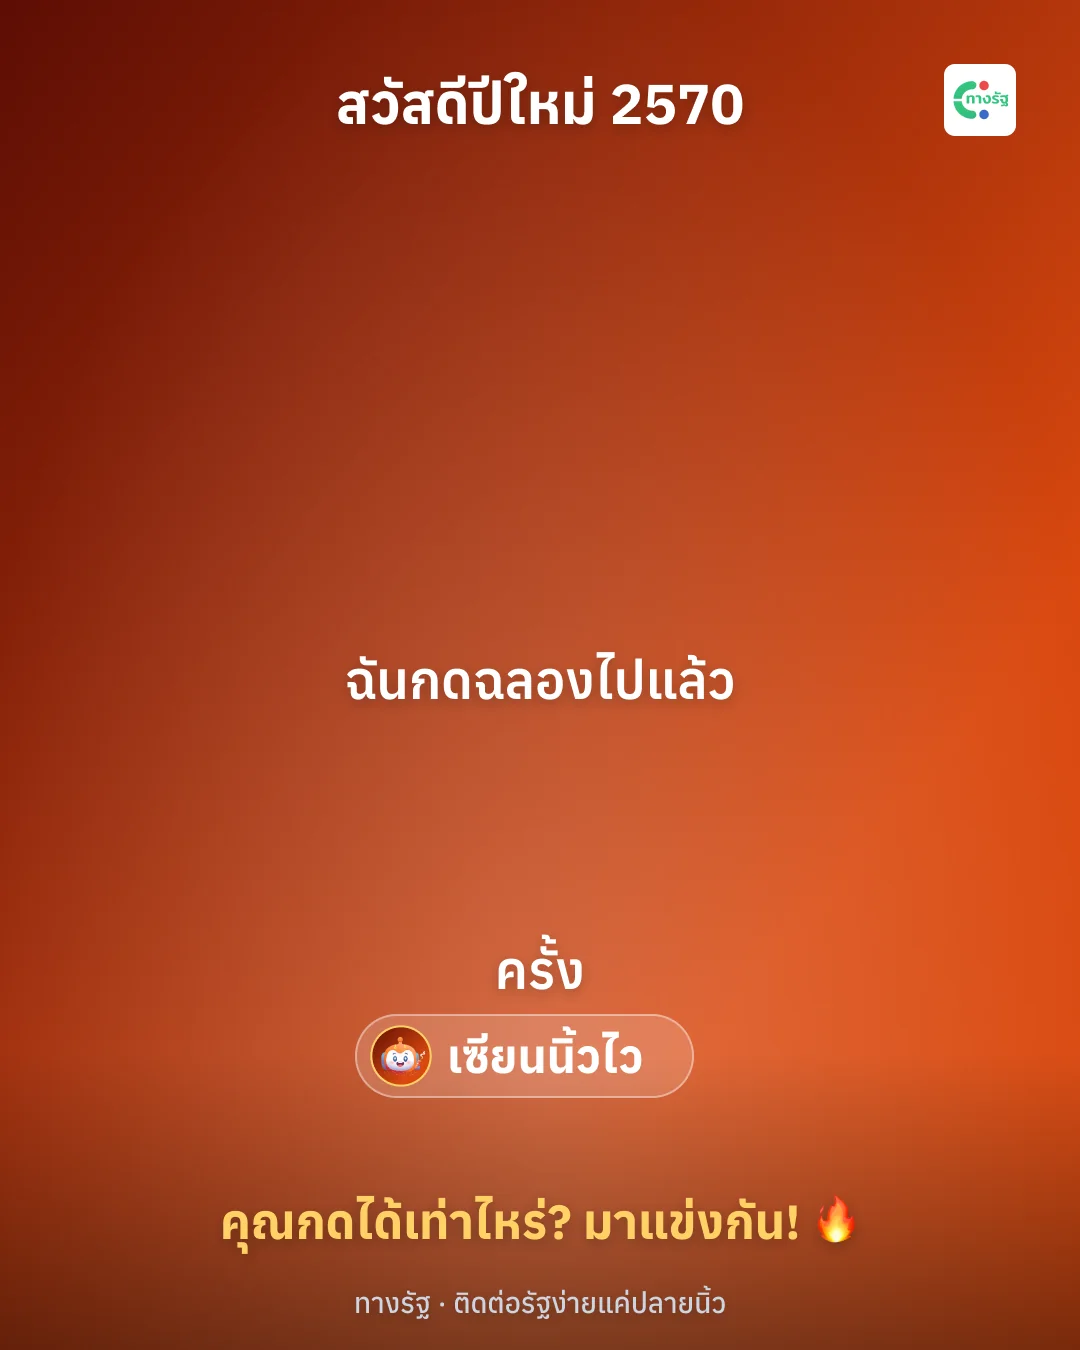
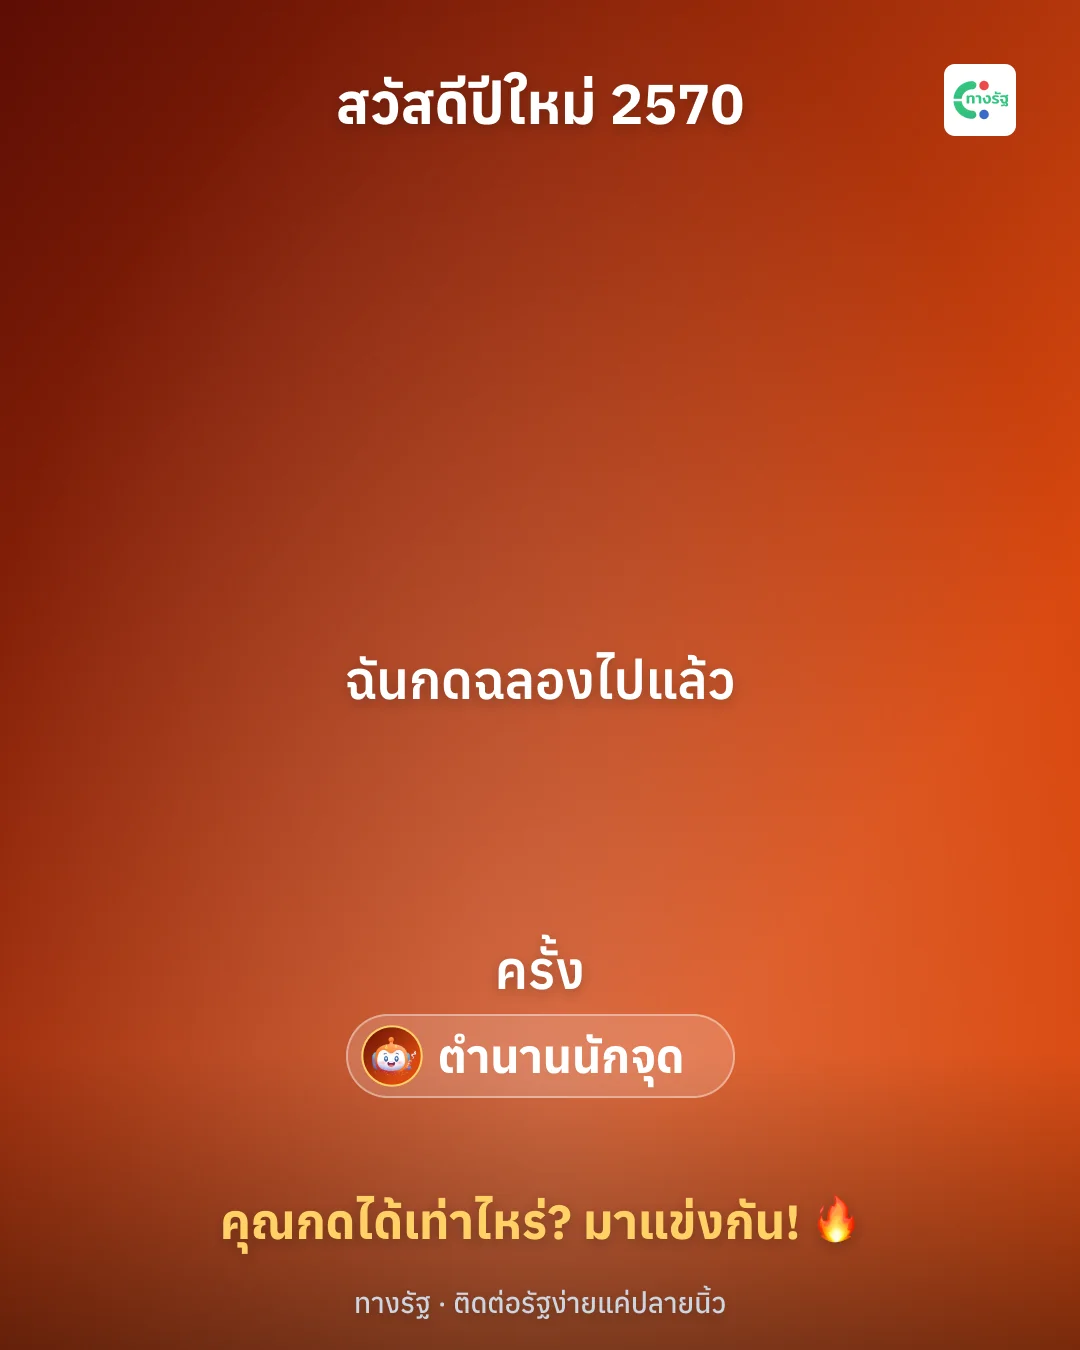
Rename the 8 levels (มือใหม่หัดจุด … จักรพรรดิแห่งพลุ) in theme, defaults, docs and the Figma-exported cards
Claude-Session: https://claude.ai/code/session_01C59eZ2hMJpxjhENaZb6RWC

Changed region(s): [[0.3056, 0.7467, 0.7028, 0.84]]

diff --git a/new-year-theme.html b/new-year-theme.html
@@ -130,7 +130,7 @@
   "greeting": false,
   "active": { "from": "2026-12-20", "to": "2027-01-10" },   ← ไม่บังคับ
   "levels": [
-    { "at": 0,  "title": "มือใหม่หัดกด", "emoji": "🐣",
+    { "at": 0,  "title": "มือใหม่หัดจุด", "emoji": "🐣",
       "card": "cards/lv1.webp",
       "colors": { "bg": ["#9d174d", "#ec4899"], "accent": ["#fde68a", "#f59e0b"] } },
     …
@@ -302,14 +302,14 @@
             <table class="data-table">
               <thead><tr><th>ระดับ</th><th>ตำแหน่ง</th><th>กดครบ (ครั้ง)</th><th>โทนสีการ์ด</th></tr></thead>
               <tbody>
-                <tr><td data-label="ระดับ">Lv.1</td><td data-label="ตำแหน่ง">🐣 มือใหม่หัดกด</td><td data-label="กดครบ (ครั้ง)">0</td><td data-label="โทนสีการ์ด">ชมพูกุหลาบ</td></tr>
-                <tr><td data-label="ระดับ">Lv.2</td><td data-label="ตำแหน่ง">✨ สายฉลองฝึกหัด</td><td data-label="กดครบ (ครั้ง)">50</td><td data-label="โทนสีการ์ด">ฟ้าอมเขียว</td></tr>
-                <tr><td data-label="ระดับ">Lv.3</td><td data-label="ตำแหน่ง">🎇 นักฉลองตัวยง</td><td data-label="กดครบ (ครั้ง)">100</td><td data-label="โทนสีการ์ด">เขียวทางรัฐ</td></tr>
-                <tr><td data-label="ระดับ">Lv.4</td><td data-label="ตำแหน่ง">🏅 มือทองแห่งทางรัฐ</td><td data-label="กดครบ (ครั้ง)">200</td><td data-label="โทนสีการ์ด">น้ำเงิน</td></tr>
-                <tr><td data-label="ระดับ">Lv.5</td><td data-label="ตำแหน่ง">🔥 เซียนนิ้วไว</td><td data-label="กดครบ (ครั้ง)">400</td><td data-label="โทนสีการ์ด">แดงส้ม</td></tr>
-                <tr><td data-label="ระดับ">Lv.6</td><td data-label="ตำแหน่ง">👑 ราชาแห่งความสุข</td><td data-label="กดครบ (ครั้ง)">800</td><td data-label="โทนสีการ์ด">ม่วงทอง</td></tr>
-                <tr><td data-label="ระดับ">Lv.7</td><td data-label="ตำแหน่ง">🌟 ตำนานดีเด่น</td><td data-label="กดครบ (ครั้ง)">1,600</td><td data-label="โทนสีการ์ด">น้ำเงินกลางคืน</td></tr>
-                <tr><td data-label="ระดับ">Lv.8</td><td data-label="ตำแหน่ง">🚀 เทพเจ้าแห่งการกด</td><td data-label="กดครบ (ครั้ง)">3,200</td><td data-label="โทนสีการ์ด">ดำม่วงอวกาศ</td></tr>
+                <tr><td data-label="ระดับ">Lv.1</td><td data-label="ตำแหน่ง">🐣 มือใหม่หัดจุด</td><td data-label="กดครบ (ครั้ง)">0</td><td data-label="โทนสีการ์ด">ชมพูกุหลาบ</td></tr>
+                <tr><td data-label="ระดับ">Lv.2</td><td data-label="ตำแหน่ง">✨ นักจุดฝึกหัด</td><td data-label="กดครบ (ครั้ง)">50</td><td data-label="โทนสีการ์ด">ฟ้าอมเขียว</td></tr>
+                <tr><td data-label="ระดับ">Lv.3</td><td data-label="ตำแหน่ง">🎇 ผู้เชี่ยวชาญการจุด</td><td data-label="กดครบ (ครั้ง)">100</td><td data-label="โทนสีการ์ด">เขียวทางรัฐ</td></tr>
+                <tr><td data-label="ระดับ">Lv.4</td><td data-label="ตำแหน่ง">🏅 นักจุดนิ้วทอง</td><td data-label="กดครบ (ครั้ง)">200</td><td data-label="โทนสีการ์ด">น้ำเงิน</td></tr>
+                <tr><td data-label="ระดับ">Lv.5</td><td data-label="ตำแหน่ง">🔥 ตำนานนักจุด</td><td data-label="กดครบ (ครั้ง)">400</td><td data-label="โทนสีการ์ด">แดงส้ม</td></tr>
+                <tr><td data-label="ระดับ">Lv.6</td><td data-label="ตำแหน่ง">👑 เซียนนิ้วติดไฟ</td><td data-label="กดครบ (ครั้ง)">800</td><td data-label="โทนสีการ์ด">ม่วงทอง</td></tr>
+                <tr><td data-label="ระดับ">Lv.7</td><td data-label="ตำแหน่ง">🌟 จอมเวทแห่งไฟ</td><td data-label="กดครบ (ครั้ง)">1,600</td><td data-label="โทนสีการ์ด">น้ำเงินกลางคืน</td></tr>
+                <tr><td data-label="ระดับ">Lv.8</td><td data-label="ตำแหน่ง">🚀 จักรพรรดิแห่งพลุ</td><td data-label="กดครบ (ครั้ง)">3,200</td><td data-label="โทนสีการ์ด">ดำม่วงอวกาศ</td></tr>
               </tbody>
             </table>
           </div>

diff --git a/new-year.html b/new-year.html
@@ -237,14 +237,14 @@
             <table class="data-table">
               <thead><tr><th>ระดับ</th><th>ตำแหน่ง</th><th>กดครบ (ครั้ง)</th><th>โทนสีการ์ด</th></tr></thead>
               <tbody>
-                <tr><td data-label="ระดับ">Lv.1</td><td data-label="ตำแหน่ง">🐣 มือใหม่หัดกด</td><td data-label="กดครบ (ครั้ง)">0</td><td data-label="โทนสีการ์ด">ชมพูกุหลาบ</td></tr>
-                <tr><td data-label="ระดับ">Lv.2</td><td data-label="ตำแหน่ง">✨ สายฉลองฝึกหัด</td><td data-label="กดครบ (ครั้ง)">50</td><td data-label="โทนสีการ์ด">ฟ้าอมเขียว</td></tr>
-                <tr><td data-label="ระดับ">Lv.3</td><td data-label="ตำแหน่ง">🎇 นักฉลองตัวยง</td><td data-label="กดครบ (ครั้ง)">100</td><td data-label="โทนสีการ์ด">เขียวทางรัฐ</td></tr>
-                <tr><td data-label="ระดับ">Lv.4</td><td data-label="ตำแหน่ง">🏅 มือทองแห่งทางรัฐ</td><td data-label="กดครบ (ครั้ง)">200</td><td data-label="โทนสีการ์ด">น้ำเงิน</td></tr>
-                <tr><td data-label="ระดับ">Lv.5</td><td data-label="ตำแหน่ง">🔥 เซียนนิ้วไว</td><td data-label="กดครบ (ครั้ง)">400</td><td data-label="โทนสีการ์ด">แดงส้ม</td></tr>
-                <tr><td data-label="ระดับ">Lv.6</td><td data-label="ตำแหน่ง">👑 ราชาแห่งความสุข</td><td data-label="กดครบ (ครั้ง)">800</td><td data-label="โทนสีการ์ด">ม่วงทอง</td></tr>
-                <tr><td data-label="ระดับ">Lv.7</td><td data-label="ตำแหน่ง">🌟 ตำนานดีเด่น</td><td data-label="กดครบ (ครั้ง)">1,600</td><td data-label="โทนสีการ์ด">น้ำเงินกลางคืน</td></tr>
-                <tr><td data-label="ระดับ">Lv.8</td><td data-label="ตำแหน่ง">🚀 เทพเจ้าแห่งการกด</td><td data-label="กดครบ (ครั้ง)">3,200</td><td data-label="โทนสีการ์ด">ดำม่วงอวกาศ</td></tr>
+                <tr><td data-label="ระดับ">Lv.1</td><td data-label="ตำแหน่ง">🐣 มือใหม่หัดจุด</td><td data-label="กดครบ (ครั้ง)">0</td><td data-label="โทนสีการ์ด">ชมพูกุหลาบ</td></tr>
+                <tr><td data-label="ระดับ">Lv.2</td><td data-label="ตำแหน่ง">✨ นักจุดฝึกหัด</td><td data-label="กดครบ (ครั้ง)">50</td><td data-label="โทนสีการ์ด">ฟ้าอมเขียว</td></tr>
+                <tr><td data-label="ระดับ">Lv.3</td><td data-label="ตำแหน่ง">🎇 ผู้เชี่ยวชาญการจุด</td><td data-label="กดครบ (ครั้ง)">100</td><td data-label="โทนสีการ์ด">เขียวทางรัฐ</td></tr>
+                <tr><td data-label="ระดับ">Lv.4</td><td data-label="ตำแหน่ง">🏅 นักจุดนิ้วทอง</td><td data-label="กดครบ (ครั้ง)">200</td><td data-label="โทนสีการ์ด">น้ำเงิน</td></tr>
+                <tr><td data-label="ระดับ">Lv.5</td><td data-label="ตำแหน่ง">🔥 ตำนานนักจุด</td><td data-label="กดครบ (ครั้ง)">400</td><td data-label="โทนสีการ์ด">แดงส้ม</td></tr>
+                <tr><td data-label="ระดับ">Lv.6</td><td data-label="ตำแหน่ง">👑 เซียนนิ้วติดไฟ</td><td data-label="กดครบ (ครั้ง)">800</td><td data-label="โทนสีการ์ด">ม่วงทอง</td></tr>
+                <tr><td data-label="ระดับ">Lv.7</td><td data-label="ตำแหน่ง">🌟 จอมเวทแห่งไฟ</td><td data-label="กดครบ (ครั้ง)">1,600</td><td data-label="โทนสีการ์ด">น้ำเงินกลางคืน</td></tr>
+                <tr><td data-label="ระดับ">Lv.8</td><td data-label="ตำแหน่ง">🚀 จักรพรรดิแห่งพลุ</td><td data-label="กดครบ (ครั้ง)">3,200</td><td data-label="โทนสีการ์ด">ดำม่วงอวกาศ</td></tr>
               </tbody>
             </table>
           </div>

diff --git a/fireworks.js b/fireworks.js
@@ -947,14 +947,14 @@
          card: 'path.png'   — full score card exported from Figma (card/lvN); code then draws only the
                               mascot, score number and best combo on top (see CARD_SLOTS). Same-origin file or data URI. */
     var LEVELS = [
-      { at: 0,    emoji: '🐣', title: 'มือใหม่หัดกด',      bg: ['#9d174d', '#ec4899'], ac: ['#fde68a', '#f59e0b'], pattern: 'confetti' },
-      { at: 50,   emoji: '✨', title: 'สายฉลองฝึกหัด',     bg: ['#0b4a5e', '#1aa3b5'], ac: ['#b9f3ff', '#38bdf8'], pattern: 'sparkle' },
-      { at: 100,  emoji: '🎇', title: 'นักฉลองตัวยง',      bg: ['#003d28', '#00704a'], ac: ['#fdb022', '#f79009'], pattern: 'bursts' },
-      { at: 200,  emoji: '🏅', title: 'มือทองแห่งทางรัฐ',   bg: ['#14245c', '#3555b5'], ac: ['#ffd36b', '#e0a800'], pattern: 'rays' },
-      { at: 400,  emoji: '🔥', title: 'เซียนนิ้วไว',        bg: ['#5c0d04', '#d9480f'], ac: ['#ffd166', '#ff7a00'], pattern: 'flames' },
-      { at: 800,  emoji: '👑', title: 'ราชาแห่งความสุข',   bg: ['#2d0748', '#7b2cbf'], ac: ['#ffd700', '#d4a017'], pattern: 'royal' },
-      { at: 1600, emoji: '🌟', title: 'ตำนานดีเด่น',        bg: ['#070b2b', '#262c78'], ac: ['#fff3b0', '#ffcf33'], pattern: 'stars' },
-      { at: 3200, emoji: '🚀', title: 'เทพเจ้าแห่งการกด',   bg: ['#04010d', '#3a0a5e'], ac: ['#7df9ff', '#c084fc'], pattern: 'space' }
+      { at: 0,    emoji: '🐣', title: 'มือใหม่หัดจุด',      bg: ['#9d174d', '#ec4899'], ac: ['#fde68a', '#f59e0b'], pattern: 'confetti' },
+      { at: 50,   emoji: '✨', title: 'นักจุดฝึกหัด',     bg: ['#0b4a5e', '#1aa3b5'], ac: ['#b9f3ff', '#38bdf8'], pattern: 'sparkle' },
+      { at: 100,  emoji: '🎇', title: 'ผู้เชี่ยวชาญการจุด',      bg: ['#003d28', '#00704a'], ac: ['#fdb022', '#f79009'], pattern: 'bursts' },
+      { at: 200,  emoji: '🏅', title: 'นักจุดนิ้วทอง',   bg: ['#14245c', '#3555b5'], ac: ['#ffd36b', '#e0a800'], pattern: 'rays' },
+      { at: 400,  emoji: '🔥', title: 'ตำนานนักจุด',        bg: ['#5c0d04', '#d9480f'], ac: ['#ffd166', '#ff7a00'], pattern: 'flames' },
+      { at: 800,  emoji: '👑', title: 'เซียนนิ้วติดไฟ',   bg: ['#2d0748', '#7b2cbf'], ac: ['#ffd700', '#d4a017'], pattern: 'royal' },
+      { at: 1600, emoji: '🌟', title: 'จอมเวทแห่งไฟ',        bg: ['#070b2b', '#262c78'], ac: ['#fff3b0', '#ffcf33'], pattern: 'stars' },
+      { at: 3200, emoji: '🚀', title: 'จักรพรรดิแห่งพลุ',   bg: ['#04010d', '#3a0a5e'], ac: ['#7df9ff', '#c084fc'], pattern: 'space' }
     ];
     if (THEME && Array.isArray(THEME.levels) && THEME.levels.length) {
       var BASE_LEVELS = LEVELS;
